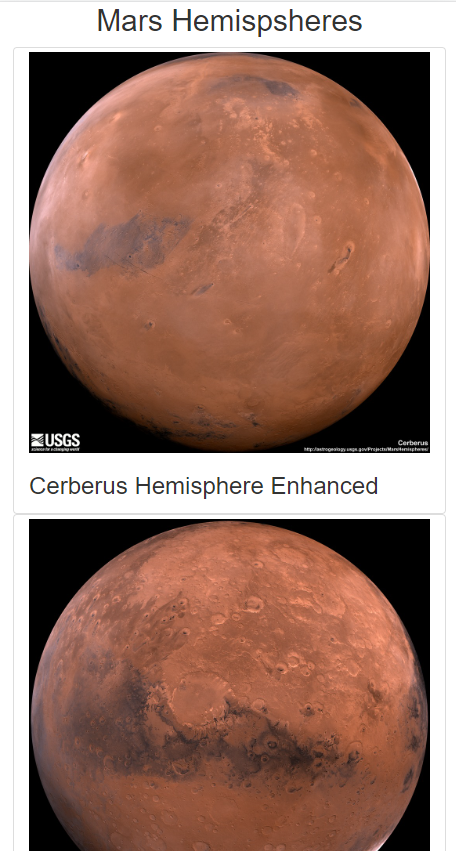
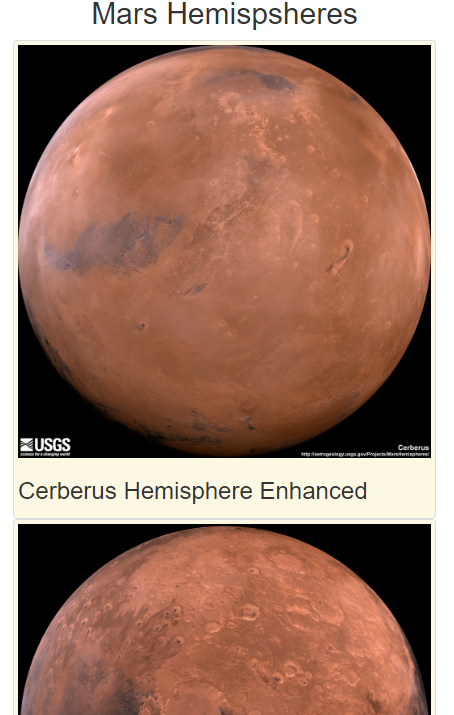
updating

diff --git a/templates/index.html b/templates/index.html
@@ -33,10 +33,9 @@
             </div>
             <div class="col-md-4">
             <!-- Mars Facts-->
-                <div class="row" id="mars-facts">
-                    <h4>Mars Facts</h4>    
+                <div class="row" id="mars-facts ">
+                    <h4>Mars Facts</h4> 
                     {{ mars.facts | safe }}
-                    
                 </div>
             </div>
         </div>
@@ -46,10 +45,12 @@
                 <h2 class="text-center">Mars Hemispsheres</h2>
                     <div class="row center-block">
                         {% for hemisphere in mars.hemispheres %}
-                        <div class="col-xs-12 col-md-6 img-thumbnail">
-                            <img src="{{ hemisphere.img_url }}", alt="Responsive image" class="img-responsive">
-                            <div>
-                                <h3 class="caption">{{ hemisphere.title }}</h3>
+                        <div class="col-xs-12 col-md-3">
+                            <div class="img-thumbnail bg-warning">
+                                <img src="{{ hemisphere.img_url }}", alt="Responsive image" class="img-responsive">
+                                <div>
+                                    <h3 class="caption">{{ hemisphere.title }}</h3>
+                                </div>
                             </div>
                         </div>
                         {% endfor %}

diff --git a/README.md b/README.md
@@ -11,6 +11,6 @@ The code was added as a function to our existing scraping script. After the func
 ![scrape all](/Resources/scrape_all.PNG)
 
 ## Results
-The data was successfully scraped and displayed in the app. After the new data was added bootstrap components were used to make the app mobile responsive, along with some other stylings. 
+The data was successfully scraped and displayed in the app. After the new data was added bootstrap components were used to make the app mobile responsive. The button and hemisphere thumbnail colors were also changed. 
 
 ![responsive](/Resources/responsive.PNG) ![responsive2](/Resources/responsive2.PNG)
